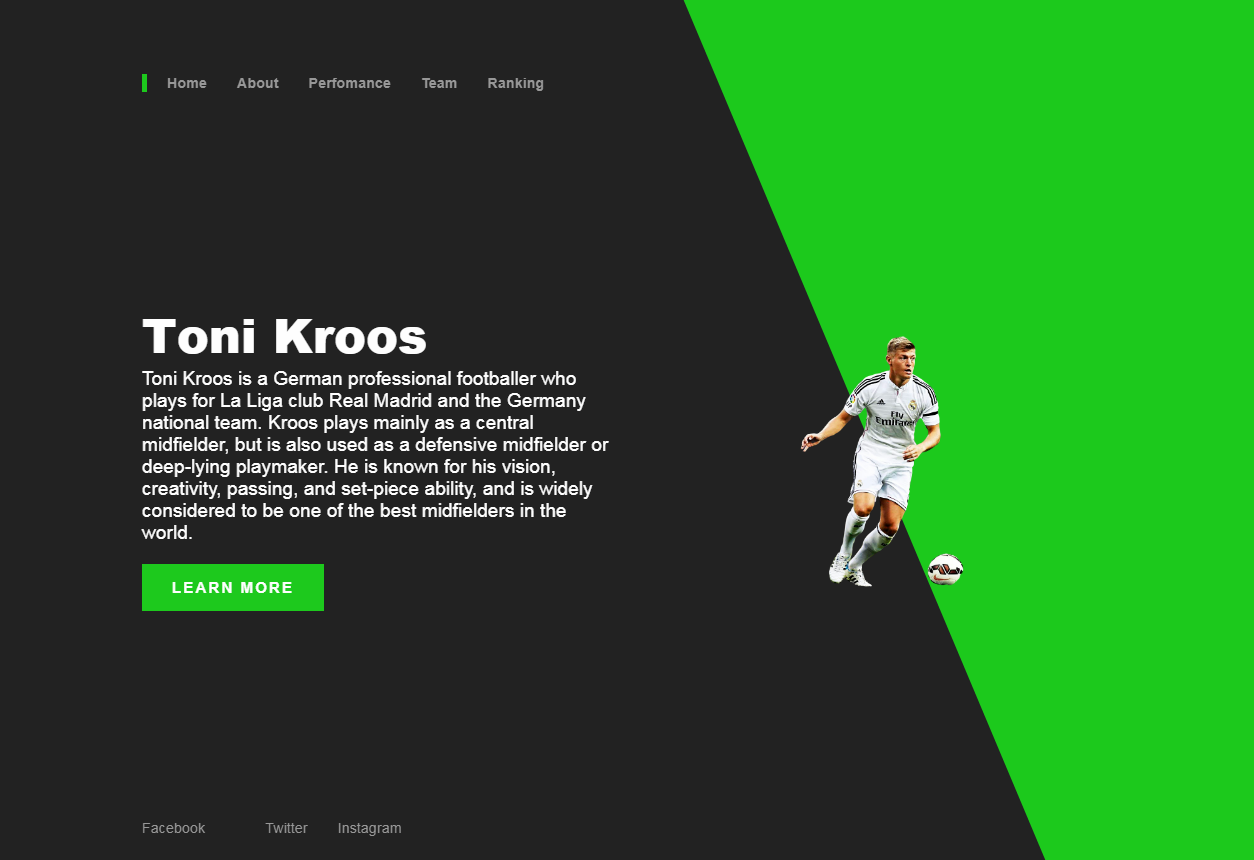
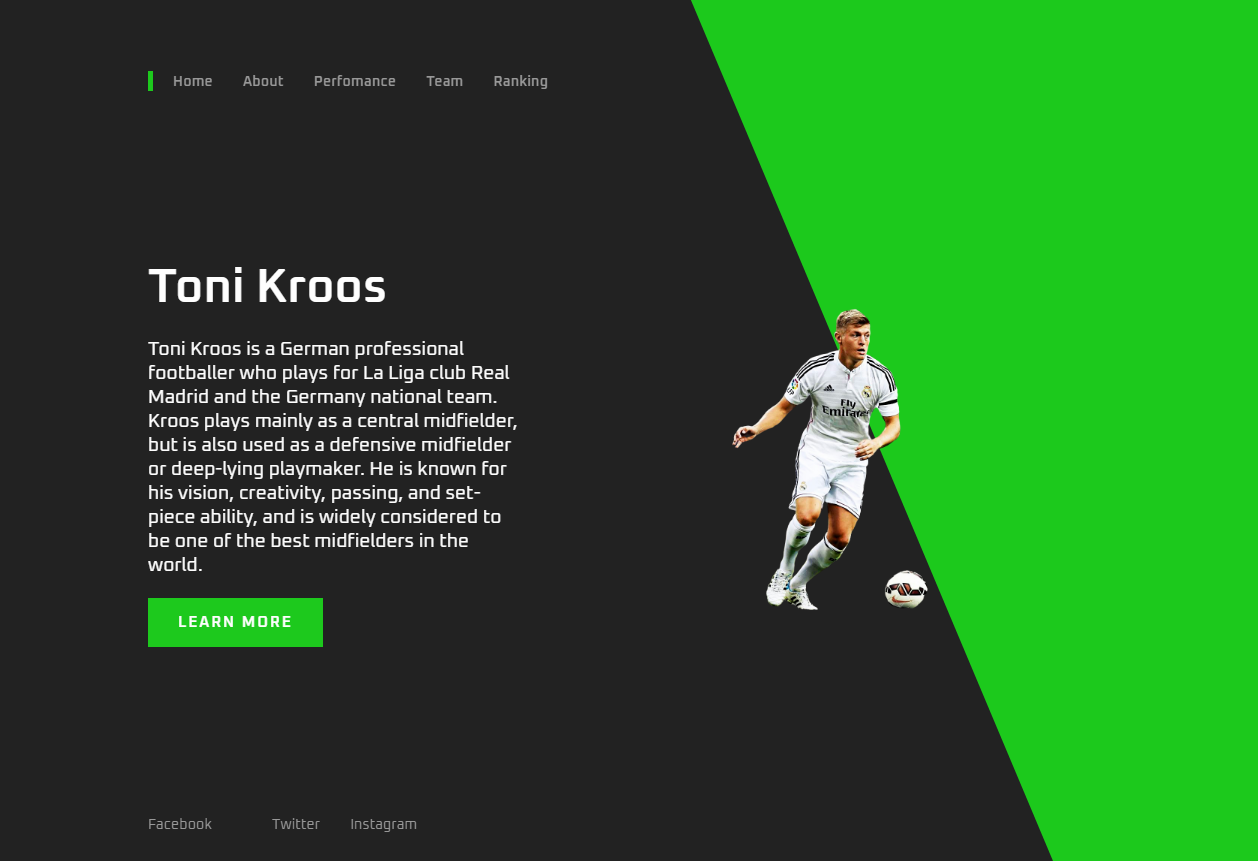
Criando Landing PAGE SPORTS

diff --git a/style.css b/style.css
@@ -1,10 +1,10 @@
-
+@import url('https://fonts.googleapis.com/css2?family=Oxanium:wght@300;400;500;600&display=swap');
 
 * {
     margin: 0;
     padding: 0;
     box-sizing: border-box;
-    font-family: 'Open Sans', sans-serif;
+    font-family: 'Oxanium', cursive;
 }
 
 section {
@@ -44,6 +44,7 @@ section .content h2 {
     color: #fff;
     font-size: 3em;
     font-weight: 800;
+    margin-bottom: 20px;
 }
 
 section .content p {
@@ -71,7 +72,7 @@ section .imgBx {
 }
 
 section .imgBx img {
-    max-width: 500px;
+    max-width: 600px;
     animation: fade-in 0.5s ease-in forwards;
     animation-delay: 2s;
     opacity: 0;
